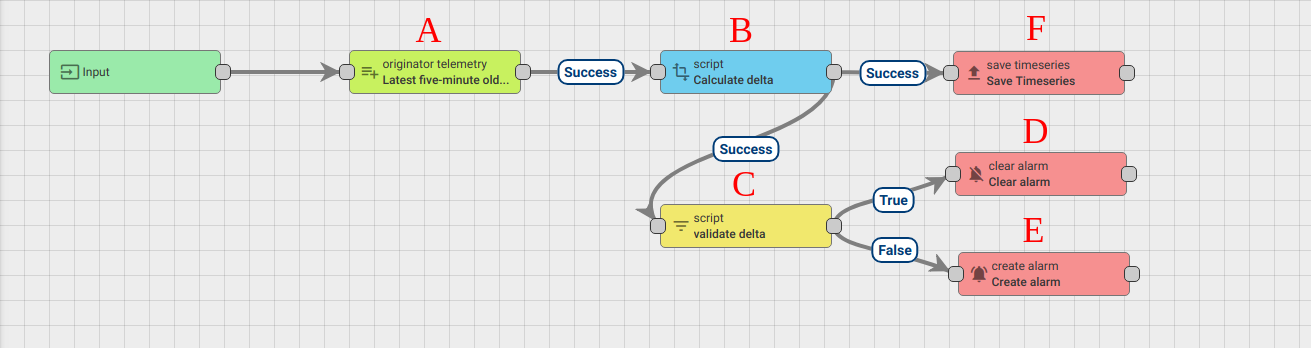
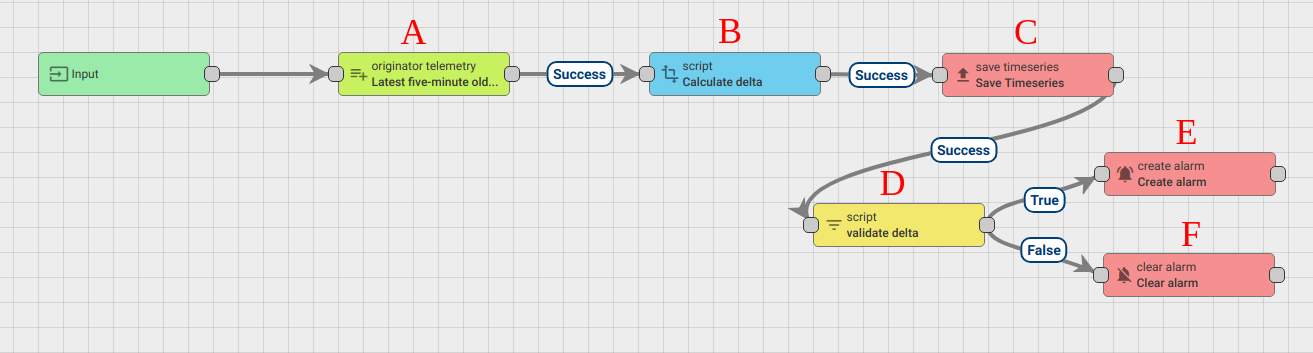
refactoring telemetry-delta-validation guide

Changed region(s): [[0.0, 0.3161, 1.0, 0.8908], [0.0, 0.0, 1.0, 0.3448], [0.0, 0.9195, 1.0, 0.9483]]

diff --git a/docs/user-guide/rule-engine-2-0/tutorials/telemetry-delta-validation.md b/docs/user-guide/rule-engine-2-0/tutorials/telemetry-delta-validation.md
@@ -34,9 +34,10 @@ Add Device entity in ThingsBoard. Its name is **Thermometer** and its type is **
 
 In this section, we explain the purpose of each node in this tutorial. There will be two rule chains involved:
 
-  - **Root rule chain** - rule chain that actually saves telemetry from devices into the database, and redirect the messages it to "Temperature delta validation" chain
+  - **Root rule chain** - rule chain that actually saves telemetry from devices into the database, and redirect the messages to **Temperature delta validation** chain
    
-  - **Temperature delta validation** - rule chain that actually calculates the delta between the last five-minutes temperature and latest temperature readings.</br> As a result, if delta value exceeds than 5 degrees, the alarm will be created/updated, otherwise, the alarm will be cleared.
+  - **Temperature delta validation** - rule chain that actually calculates the delta between the last five-minutes temperature and latest temperature readings.
+    <br> As a result, if delta value exceeds 5 degrees, the alarm will be created/updated, otherwise, the alarm will be cleared.
 
 The following screenshots show how the above Rule Chains should look like:
  
@@ -92,6 +93,45 @@ We will use fetch mode: **LAST**  with the time range from 24 hours ago till 5 m
  
 ![image](/images/user-guide/rule-engine-2-0/tutorials/delta-validation/latest-five-minute-old-record.png)
  
+###### Note: 
+    
+  Let's assume, you need to fetch all telemetry from the particular time range.
+  
+  In this case, you need to select the fetch mode: **ALL**. So rule node will be fetched all telemetry from the specified time range and add it to the message metadata as an array where the key of a particular element will be timestamp and value will be value in this timestamp. 
+  
+  - Metadata of the outbound message would be JSON document with the following structure:
+   
+  {% highlight javascript %}
+  {
+    "temperature": "[{\"ts\":1540892498884,\"value\":22.4},{\"ts\":1540892528847,\"value\":20.45},{\"ts\":1540892558845,\"value\":22.3}]"
+  }{% endhighlight %}
+    
+  - In order to convert the array to the valid JSON document you can use the following script: 
+    
+  {% highlight javascript %}
+  var newMsg = {};
+    
+  newMsg.temperatureArray = JSON.parse(metadata.temperature);
+    
+  return {msg: newMsg, metadata: metadata, msgType: msgType};{% endhighlight %}  
+      
+  - The outbound message payload will look like introduced below:
+  
+  {% highlight javascript %}
+  {
+      "temperatureArray": [{
+          "ts": 1540892498884,
+          "value": 22.4
+      }, {
+          "ts": 1540892528847,
+          "value": 20.45
+      }, {
+          "ts": 1540892558845,
+          "value": 22.3
+      }]
+  }{% endhighlight %}  
+ 
+Fetched mode **ALL** could be useful in the cases if you need to calculate, e.g variance for a particular key or to predict further change of telemetry depending on telemetry changes in the selected time range. 
  
 ###### Node B: **Script Transformation**
  - Add the **Script Transformation** node and connect it to the **Change Orignator** node with a relation type **Success**.
@@ -109,8 +149,16 @@ We will use fetch mode: **LAST**  with the time range from 24 hours ago till 5 m
    
  ![image](/images/user-guide/rule-engine-2-0/tutorials/delta-validation/calculate-delta.png)  
   
-###### Node C: **Filter Script**
- - Add the **Filter Script** node and connect it to the **Calculate delta** node with a relation type **Success**.
+###### Node C: **Save Timeseries**  
+ - Add the **Save TimeSeries** node and connect it to the **Script Transformation** node with a relationship type **Success**.  
+   This node will save the TimeSeries data from the incoming Message payload into the database and link it to the Device that is identified as the Message Originator.
+     
+ - Enter the Name field as **Save Time Series**.
+
+![image](/images/user-guide/rule-engine-2-0/tutorials/delta-validation/save-timeseries.png)
+
+###### Node D: **Filter Script**
+ - Add the **Filter Script** node and connect it to the **Save TimeSeries** node with a relation type **Success**.
  <br>This node will validate that calculated delta value between the latest temperature reading and five-minutes ago temperature reading did not exceed 5 degrees using the following script:
   
    {% highlight javascript %}
@@ -120,7 +168,8 @@ We will use fetch mode: **LAST**  with the time range from 24 hours ago till 5 m
   
 ![image](/images/user-guide/rule-engine-2-0/tutorials/delta-validation/validate-delta.png)
 
-###### Node D: **Create alarm**
+
+###### Node E: **Create alarm**
  - Add the **Create alarm** node and connect it to the **Filter Script** node with a relation type **True**. <br>
   This node loads the latest Alarm with configured Alarm Type for Message Originator, namely **Thermometer**<br> if the published delta temperature is not at expected range (filter script node returns True). 
   
@@ -128,21 +177,13 @@ We will use fetch mode: **LAST**  with the time range from 24 hours ago till 5 m
 
 ![image](/images/user-guide/rule-engine-2-0/tutorials/delta-validation/create-alarm.png)
 
-###### Node E: **Clear Alarm**
+###### Node F: **Clear Alarm**
  - Add the **Clear Alarm** node and connect it to the **Filter Script** node with a relation type **False**. <br>
   This node loads the latest Alarm with configured Alarm Type for Message Originator **Thermometer**<br> and Clears alarm if it exists in case if the published temperature delta is in expected range (script node returns False). 
   
  - Enter the Name field as **Clear Alarm** and the Alarm type as **General Alarm**.
 
 ![image](/images/user-guide/rule-engine-2-0/tutorials/delta-validation/clear-alarm.png)
-
-###### Node F: **Save Timeseries**  
- - Add the **Save TimeSeries** node and connect it to the **Script Transformation** node with a relationship type **Success**.  
-   This node will save the TimeSeries data from the incoming Message payload into the database and link it to the Device that is identified as the Message Originator.
-     
- - Enter the Name field as **Save Time Series**.
-
-![image](/images/user-guide/rule-engine-2-0/tutorials/delta-validation/save-timeseries.png)
 
 #### Modify Root Rule Chain
 
